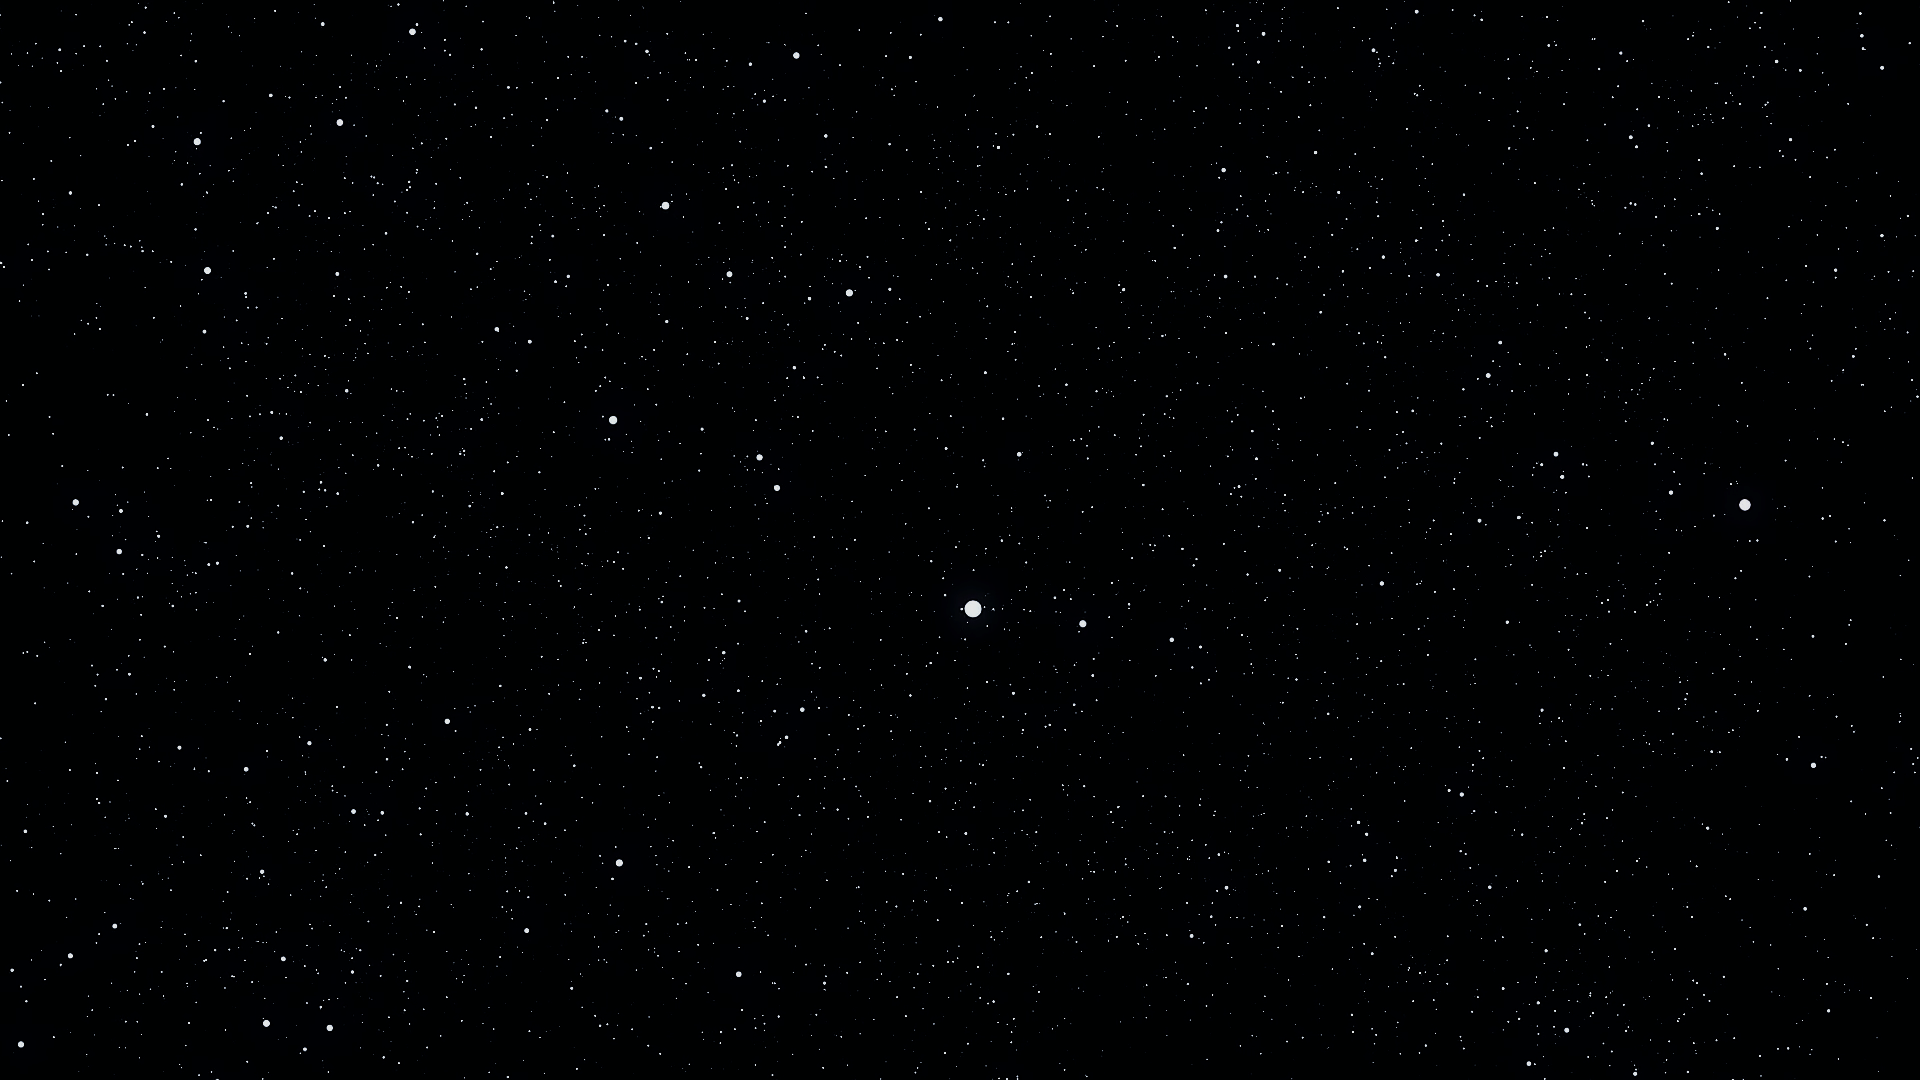
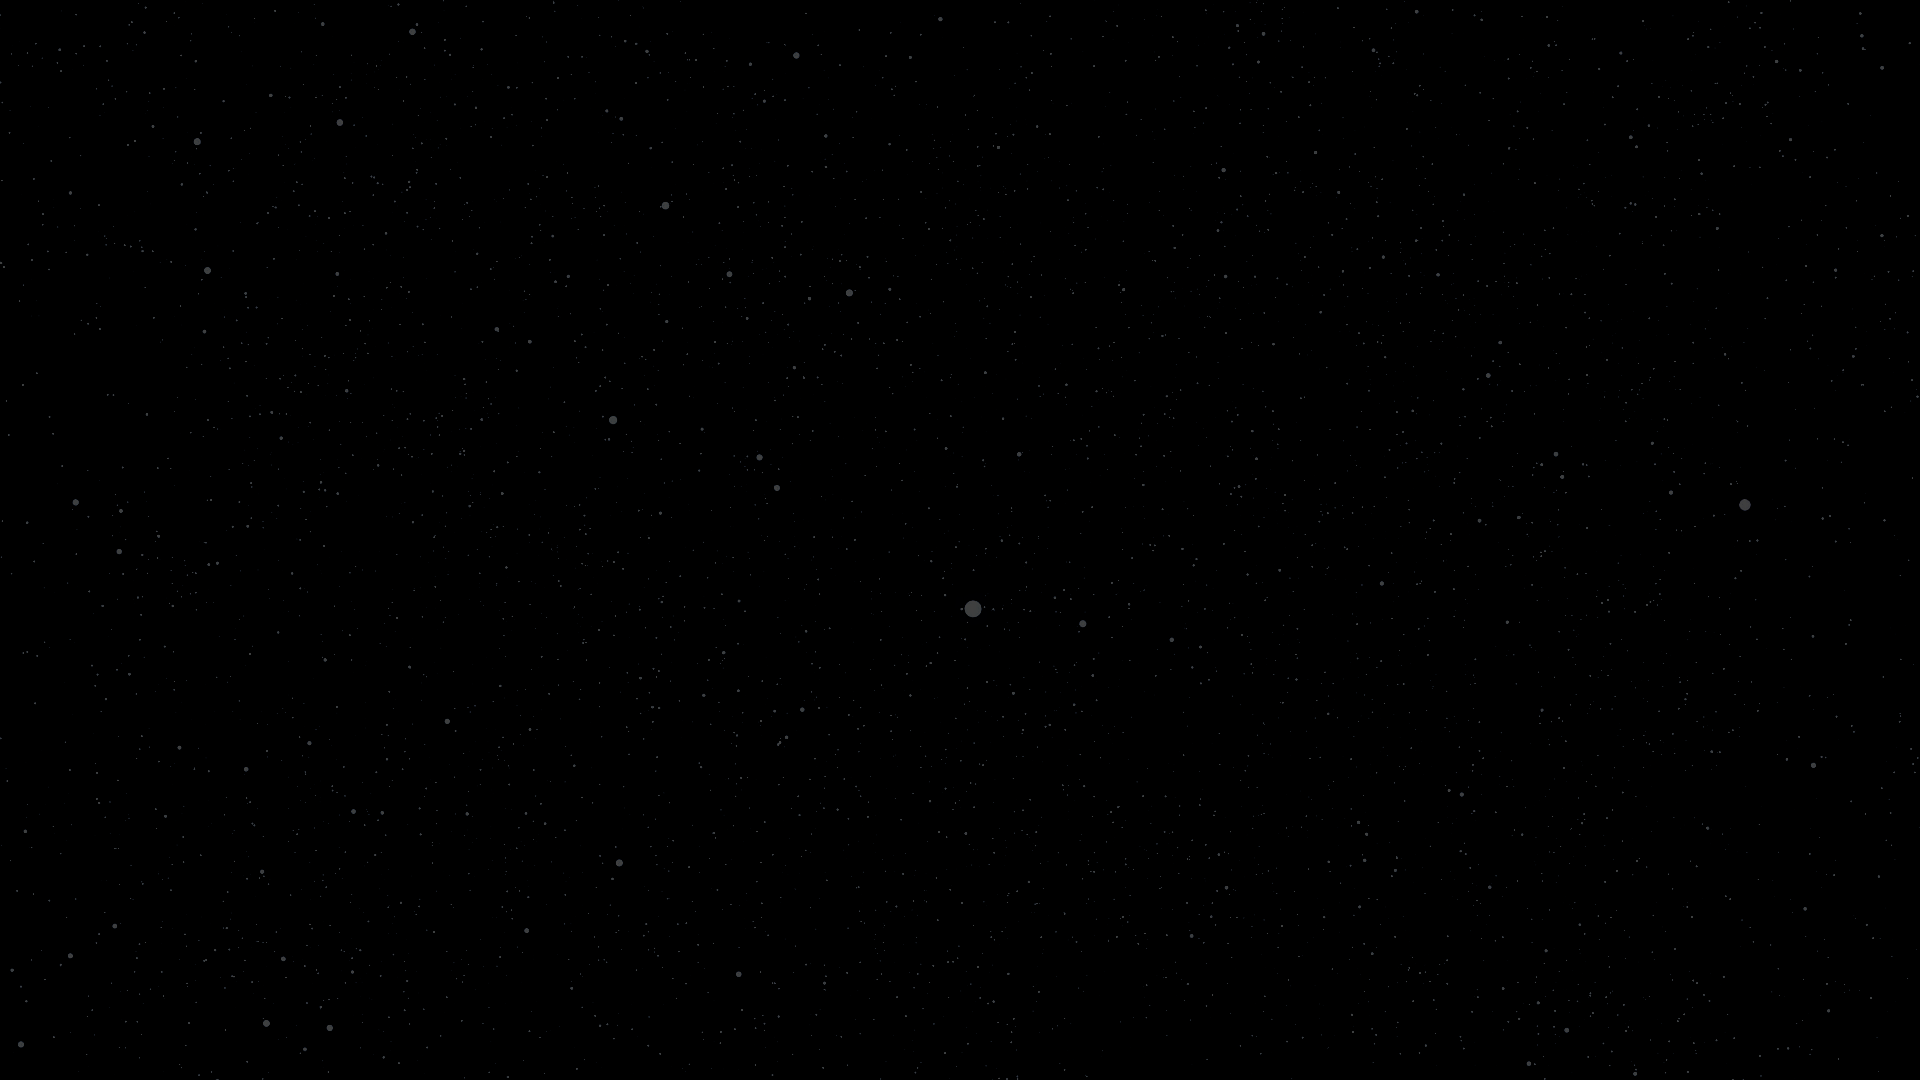
123

Changed region(s): [[0.5, 0.55, 0.5312, 0.5806]]

diff --git a/SolarSystem.py b/SolarSystem.py
@@ -9,7 +9,7 @@ screen = turtle.Screen()
 screen.bgcolor("black")
 screen.setup(MonitorResolution()[0], MonitorResolution()[1], 0, 0)
 screen.title("Симуляция Солнечной системы")
-screen.bgpic("stars2.png")
+screen.bgpic("stars.png")
 screen.tracer(0)
 
 
@@ -110,7 +110,7 @@ screen.listen()
 
 # Начинаем движение
 def Update():
-    global last_update_time, is_paused, sim_seconds, years
+    global last_update_time, is_paused, sim_seconds
 
     screen.update()
 
@@ -143,22 +143,27 @@ def Update():
 
 
 
-    # === Формируем текущее состояние ===
-    status = "Пауза" if is_paused else f"Скорость: x{sim_time_speed:.2f}"
+    # === Формируем текущую строку состояния ===
+    if is_paused:
+        status = "Пауза"
+        seconds = "SS"
+        minutes = "MM"
+        hours = "HH"
+        days = "DDD"
+        years = "YYYY"
+    else:
+        status = f"Скорость: x{sim_time_speed:.2f}"
+        seconds = int(sim_seconds % 60)
+        minutes = int(sim_seconds / 60 % 60)
+        hours = int(sim_seconds / 60 / 60 % 24)
+        days = int(sim_seconds / 60 / 60 / 24 % (planets_data["Earth"]["orbitalPeriod"] / 60 / 60 / 24))
+        years = int(sim_seconds / planets_data["Earth"]["orbitalPeriod"])
 
 
 
     # === Выводим текущее время внутри симуляции ===
-
-    minutes = int(sim_seconds / 60 % 60)
-    hours = int(sim_seconds / 60 / 60 % 24)
-    days = int(sim_seconds / 60 / 60 / 24 % (planets_data["Earth"]["orbitalPeriod"] / 60 / 60 / 24))
-    years = int(sim_seconds / planets_data["Earth"]["orbitalPeriod"])
-
-
-
     time_display.write(
-        f"Время: {years} год:{days:3d}:{hours:2d}:{minutes:2d}:{int(sim_seconds % 60):2d}    {status}    Показать орбиты: {not is_showOrbits}",
+        f"Время: {years:4}:{days:3}:{hours:2}:{minutes:2}:{seconds:2}    {status}",
         align="left",
         font=("Courier", 16, "normal")
     )

diff --git a/Methods.py b/Methods.py
@@ -1,6 +1,6 @@
 import win32api
 import win32con
-from math import sqrt, sin, cos, pi
+from math import sin, cos, pi
 from constants import *
 
 
@@ -22,8 +22,7 @@ DELAY = 1 / FPS  # ~0.0167 секунд на кадр
 
 
 
-# Функция возвращает новую позицию планеты относительно Солнца.
-
+# Функция возвращает новую позицию планеты
 def UpdatePlanetPos(planets, name, total_sim_seconds):
     planet = planets[name]
 
@@ -55,7 +54,9 @@ def UpdateLabelPosition(name, planets_labels, planets):
 def DrawOrbits(planets):
     for name in planets:
         planet = planets[name]
-
+        start_x = planet.xcor()
+        start_y = planet.ycor()
+        planet.hideturtle()
         scale = planets_data_multipliers[name]["distanceFromSun"]
         r = planets_data[name]["distanceFromSun"]
         for angle in range(361):
@@ -64,6 +65,9 @@ def DrawOrbits(planets):
             planet.goto(x, y)
             planet.pendown()
         planet.penup()
+        planet.goto(start_x, start_y)
+        planet.showturtle()
+
 
 def ClearOrbits(planets):
     for name in planets:
